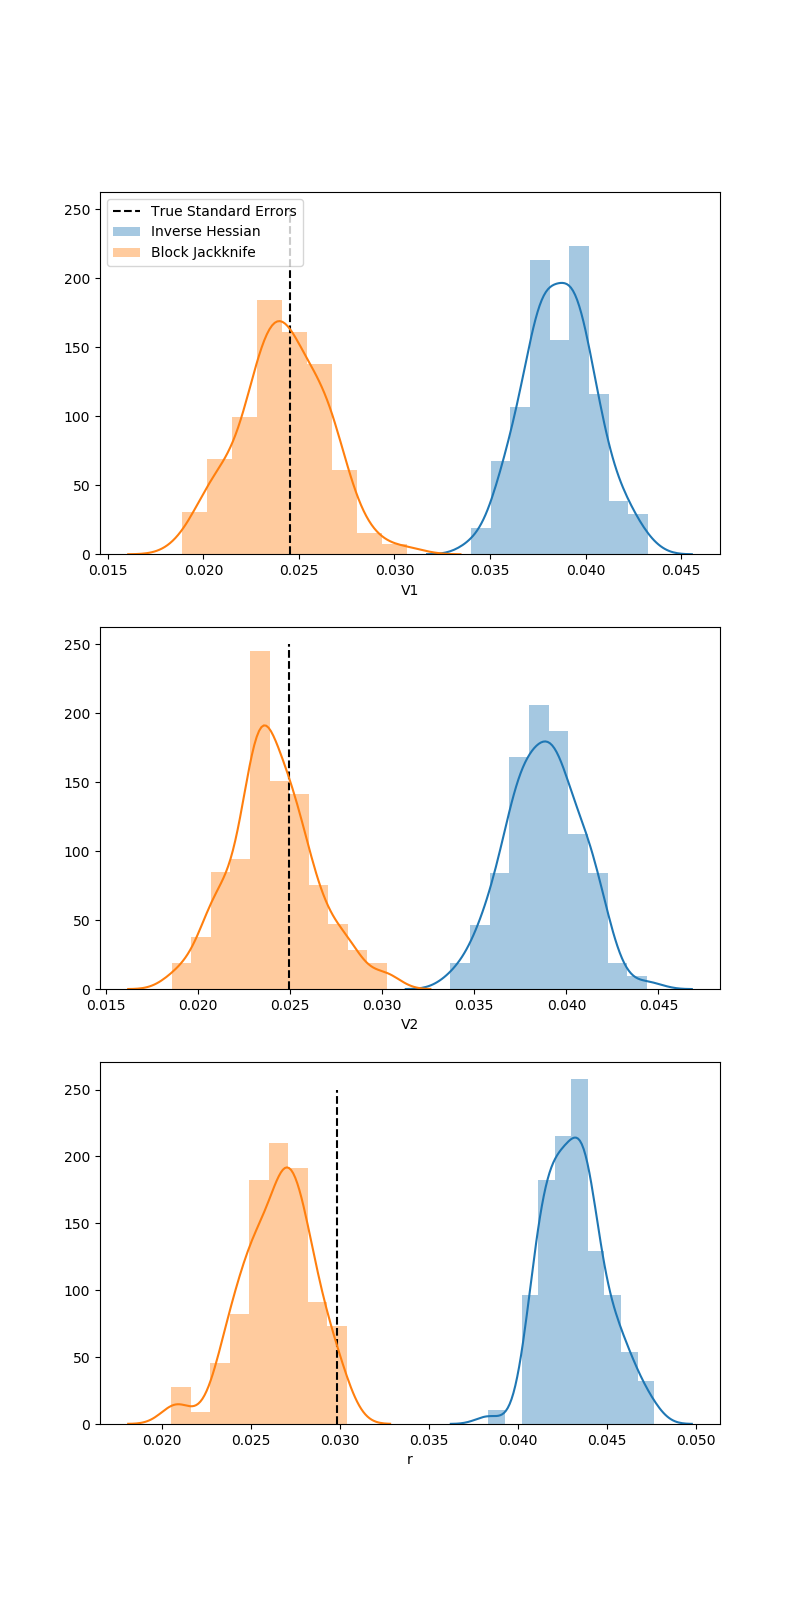
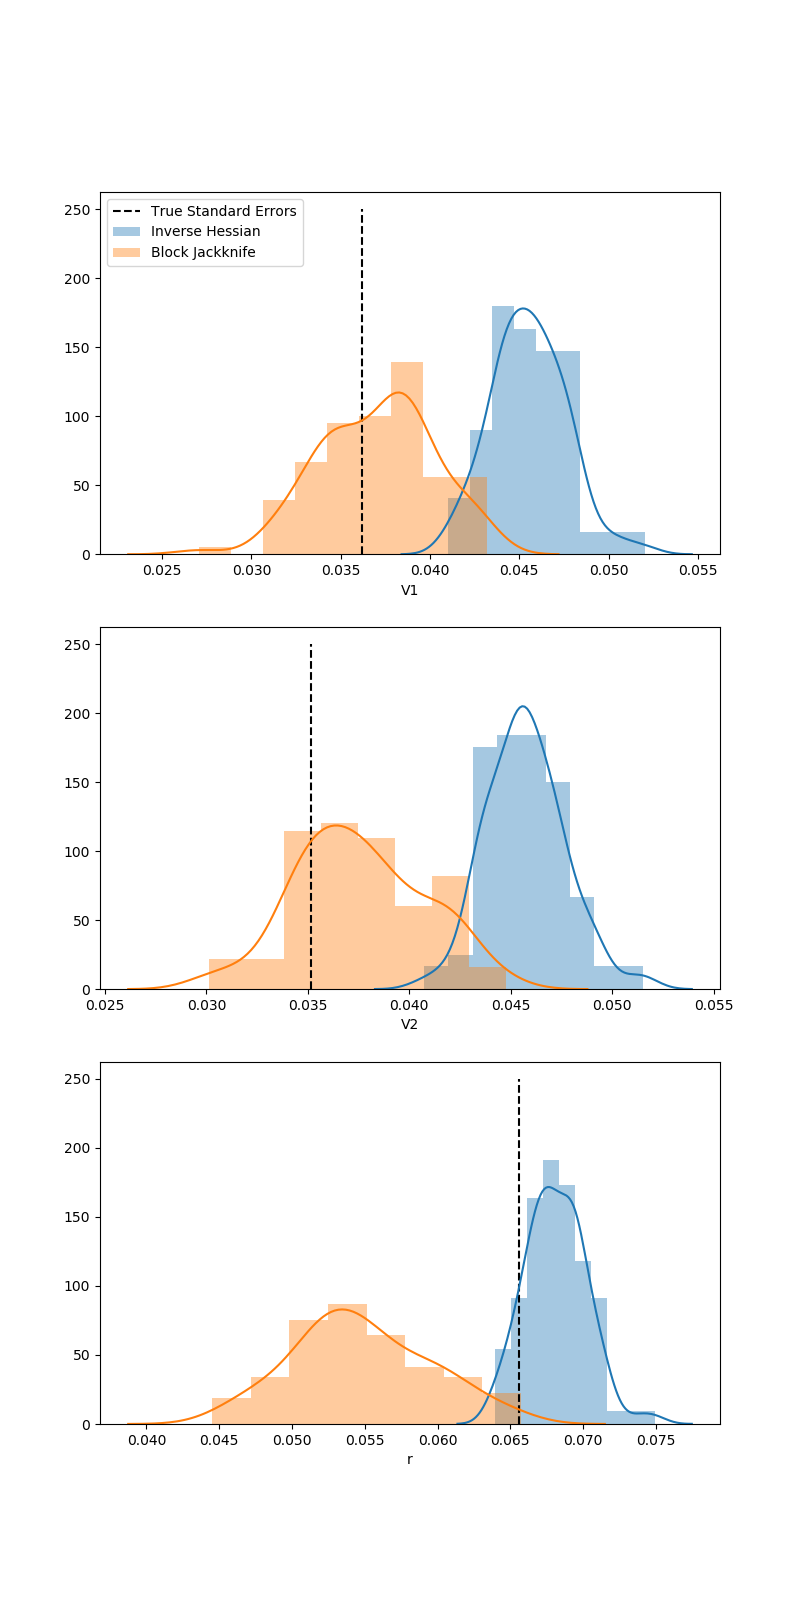
updated the tests

diff --git a/tests/test_ldsc.py b/tests/test_ldsc.py
@@ -4,7 +4,7 @@ from numpy import testing
 import ldsc_reg.inferz.sib_ldsc_z as ld
 import scipy.stats
 
-def get_logll_scipy(V, z, r, S):
+def get_logll_scipy(V, z, l, S, M):
 
     '''
     Gets log likelihood function from scipy
@@ -12,9 +12,12 @@ def get_logll_scipy(V, z, r, S):
     is defined correctly
     '''
     
-    S_inv_root = ld.calc_inv_root(S)
+    V = ld.V2Vmat(V, M)
+
+    Vnew, Snew = ld.standardize_mat(V, S, M)
+
     dist = scipy.stats.multivariate_normal(mean = None,
-                                          cov = np.eye(V.shape[0]) + r * S_inv_root @ V @ S_inv_root)
+                                          cov = Snew + l * Vnew)
 
     nlogll = dist.logpdf(z)
     return nlogll
@@ -39,14 +42,14 @@ class test_regrnd_functions(unittest.TestCase):
         f = np.random.uniform(0, 1, N)
         
         model = ld.sibreg(S = S/N)
-        model.simdata(V/N, N, simr = True)
+        model.simdata(V/N, N, simld = True)
         
         scipy_logll = np.empty(N)
         a_logll = np.empty(N)
         
         for i in range(N):
-            scipy_logll[i] = get_logll_scipy(V, model.z[i, :], model.r[i], model.S[i])
-            a_logll[i] = ld._log_ll(V, model.z[i, :], model.S[i], model.r[i])
+            scipy_logll[i] = get_logll_scipy(ld.Vmat2V(V, model.M), model.z[i, :], model.l[i], model.S[i], model.M)
+            a_logll[i] = ld._log_ll(ld.Vmat2V(V, model.M), model.z[i, :], model.S[i], model.l[i], model.M)
             
         
         np.allclose(scipy_logll, a_logll)
@@ -68,14 +71,14 @@ class test_regrnd_functions(unittest.TestCase):
         f = np.random.uniform(0, 1, N)
         
         model = ld.sibreg(S = S/N)
-        model.simdata(V/N, N, simr = True)
+        model.simdata(V/N, N, simld = True)
         
-        aderiv = np.empty((N, 2, 2))
-        nderiv = np.empty((N, 2, 2))
+        aderiv = np.empty((N, 3))
+        nderiv = np.empty((N, 3))
         
         for i in range(N):
-            aderiv[i, :, :] = ld._grad_ll_v(V, model.z[i, :], model.S[i],  model.r[i])
-            nderiv[i, :, :] = ld._num_grad_V(V, model.z[i, :], model.S[i],  model.r[i])
+            aderiv[i, :] = ld._grad_ll_v(ld.Vmat2V(V, model.M), model.z[i, :], model.S[i],  model.l[i], model.M)
+            nderiv[i, :] = ld._num_grad_V(ld.Vmat2V(V, model.M), model.z[i, :], model.S[i], model.l[i], model.M)
 
         np.allclose(aderiv, nderiv)
         

diff --git a/ldsc_reg/inferz/standarderrors_montecarlo.py b/ldsc_reg/inferz/standarderrors_montecarlo.py
@@ -34,7 +34,9 @@ def sim_data(nsim = 100):
     return inv_hess, jkse, estimates
 
 
+np.random.seed(123)
 inv_hess, jkse, estimates = sim_data()
+inv_hess = inv_hess/np.sqrt(2)
 
 # plotting
 fig, ax = plt.subplots(3, 1, figsize = (8, 16))
